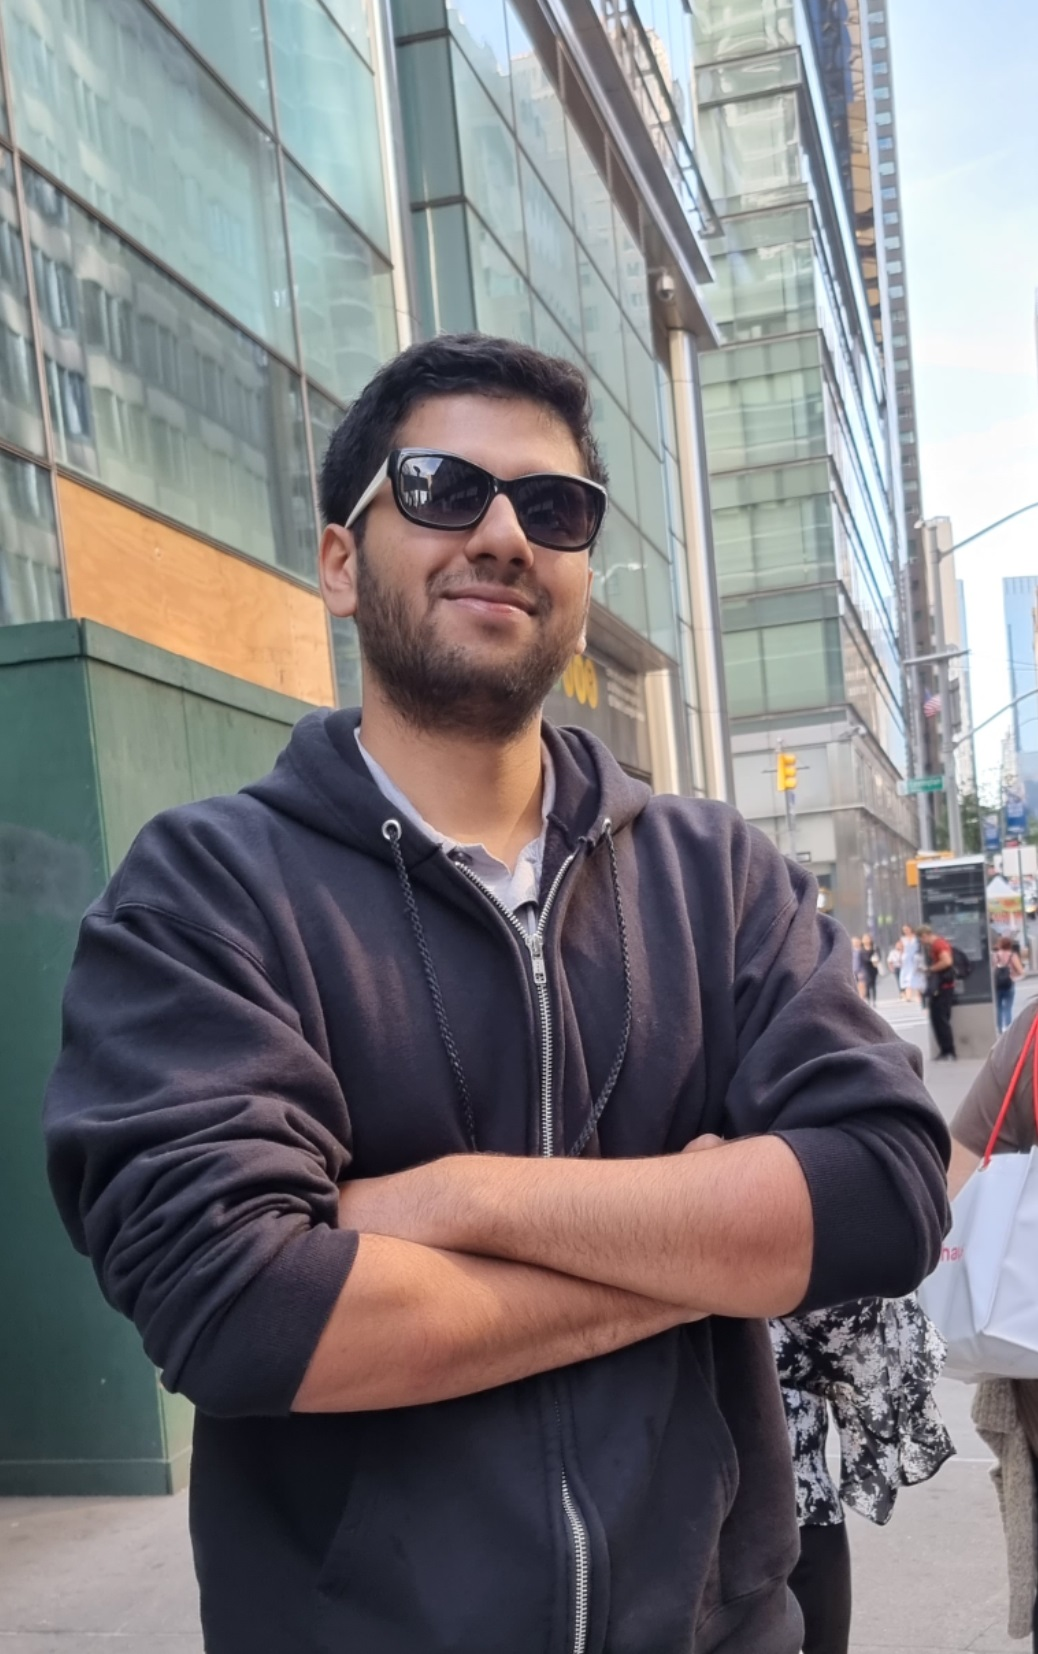
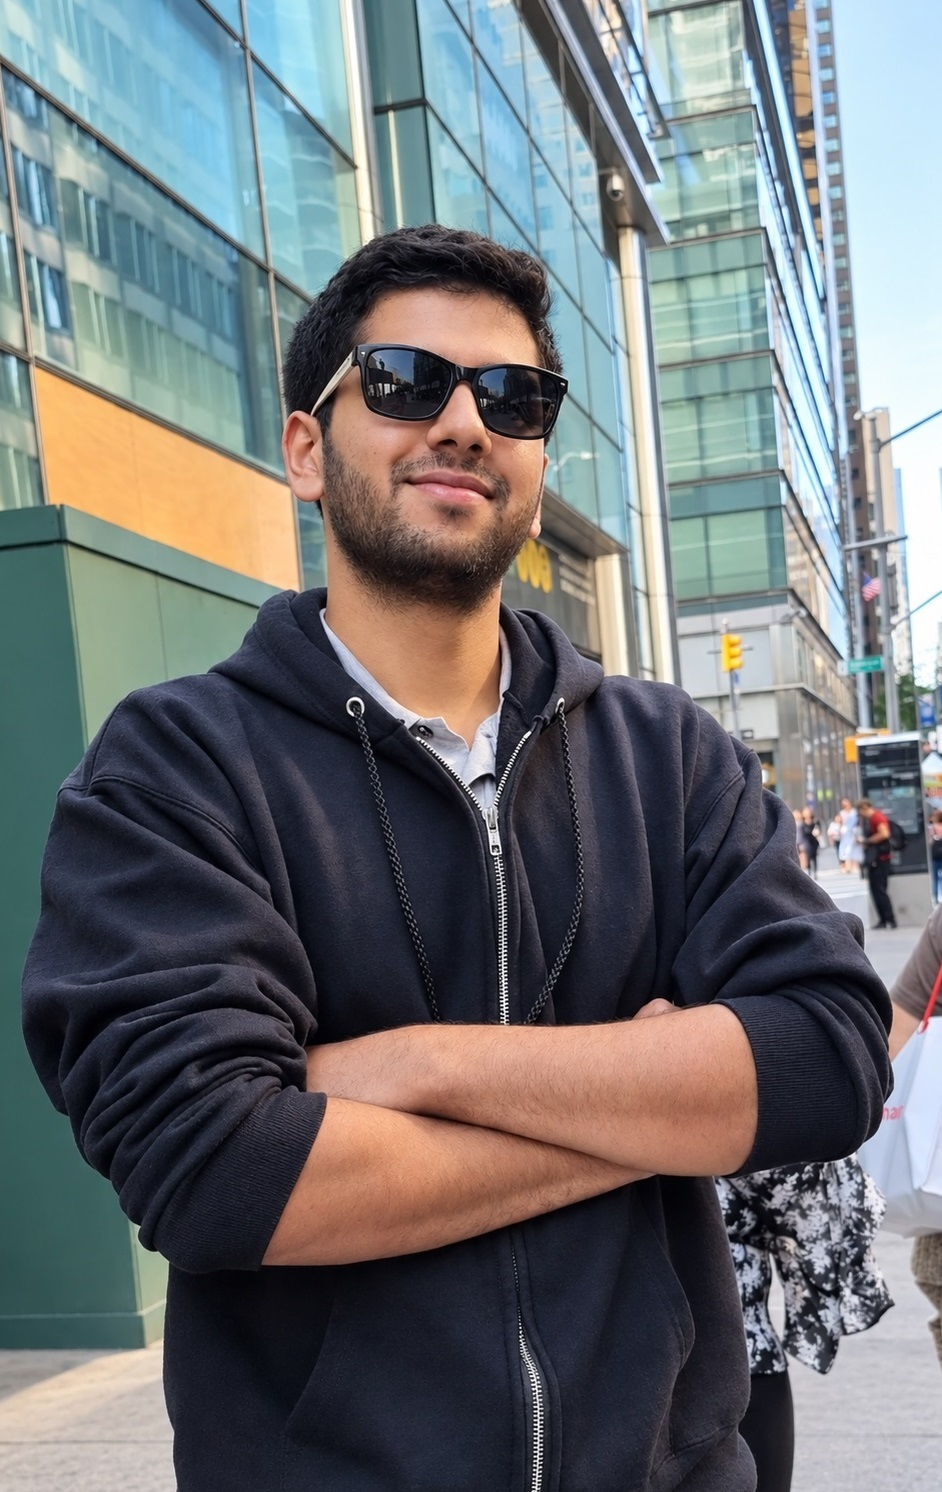
added some updates

diff --git a/index.html b/index.html
@@ -111,7 +111,7 @@
         <div class="text-container">
             <ul class="custom-list">
                 <li>
-                    Hi, I’m Ahmad! I’m an Embedded Software Engineer with a Bachelor’s degree in Electrical Engineering. I currently work at Grenova, developing firmware for the latest generation of TipNovus machines—used in laboratories globally to clean labware efficiently and sustainably. On the side, I evaluate AI-generated code for LLMs at Scale AI. I’ve also worked in the MEP field, designing power layouts and electrical schematics for various construction projects.
+                    Hi, I’m Ahmad! I’m an Embedded Software Engineer with a Bachelor’s degree in Electrical Engineering. I currently work at Grenova Robotics, developing firmware for the latest generation of lab equipment aimed at improving efficiency and sustainability. On the side, I evaluate AI-generated code for LLMs at Scale AI. I’ve also worked in the MEP field, designing power layouts and electrical schematics for various construction projects.
                 </li>
                 <li>
                     Notable projects include building a self-balancing robot, creating an 8-bit computer from scratch, and designing ICs at the semiconductor level. These experiences deepened my knowledge of computer architecture and circuit design and honed my programming skills (C, C++, Python, and Verilog), among other projects.
@@ -188,9 +188,9 @@
         <h3 class="resume-title">Experience</h3>
 
         <div class="resume-item">
-          <h4><img src="img/experience/grenova.png" alt="Grenova Logo" class="experience-logo">Firmware Engineer</h4>
+          <h4><img src="img/experience/grenova_robotics.png" alt="Grenova Logo" class="experience-logo">Firmware Engineer</h4>
           <h5>February 2025 - Present</h5>
-          <p><em>Grenova (Richmond, VA)</em></p>
+          <p><em>Grenova Robotics (Richmond, VA)</em></p>
           <ul>
             <li>Developed firmware for STM32-based microcontrollers (ARM Cortex-M7) using FreeRTOS.</li>
             <li>Designed and maintained a CMake-based build system integrating 50+ dependency repositories, including hardware abstraction layers, interface libraries, and class definitions.</li>
@@ -350,7 +350,7 @@
             <li data-filter=".filter-product">Computer Architecture</li>
             <li data-filter=".filter-branding">Integrated Circuits VLSI</li>
             <li data-filter=".filter-books">Firmware Development</li>
-            <li data-filter=".filter-ai">AI Web Apps</li>
+            <li data-filter=".filter-ai">Web Apps</li>
           </ul><!-- End Portfolio Filters -->
 
           <div class="row gy-4 isotope-container" data-aos="fade-up" data-aos-delay="200">
@@ -532,6 +532,18 @@
                   <p>Developed a Flashcard app using Next.js/React, Firebase, Clerk, and Stripe that generates AI-powered flashcards through OpenAI integration. The app is hosted on Vercel.</p>
                   <a href="img/portfolio/quizzme.JPG" title="AI Flashcards - Quizzme" data-gallery="portfolio-gallery-ai" class="glightbox preview-link"><i class="bi bi-zoom-in"></i></a>
                   <a href="https://quizzme-eta.vercel.app/" title="More Details" class="details-link"><i class="bi bi-link-45deg"></i></a>
+                </div>
+              </div>
+            </div><!-- End Portfolio Item -->
+
+            <div class="col-lg-4 col-md-6 portfolio-item isotope-item filter-ai">
+              <div class="portfolio-content h-100">
+                <img src="img/portfolio/quotepoint.png" class="img-fluid" alt="Customer and contractor discussing a project">
+                <div class="portfolio-info">
+                  <h4>QuotePoint</h4>
+                  <p>A marketplace connecting customers with contractors and skilled DIYers to compare project options, pricing, and timelines.</p>
+                  <a href="img/portfolio/quotepoint.png" title="QuotePoint" data-gallery="portfolio-gallery-ai" class="glightbox preview-link"><i class="bi bi-zoom-in"></i></a>
+                  <a href="https://www.quotepoint.work/about" title="More Details" class="details-link"><i class="bi bi-link-45deg"></i></a>
                 </div>
               </div>
             </div><!-- End Portfolio Item -->
